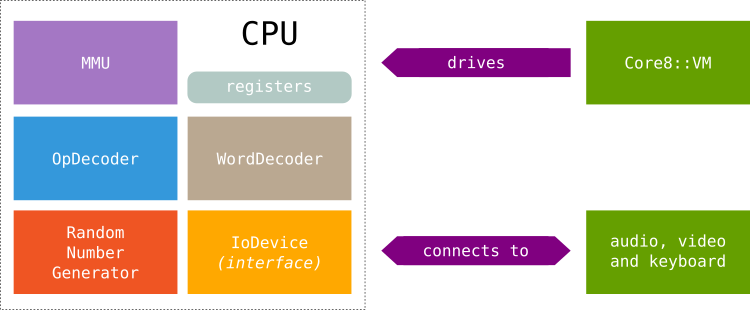
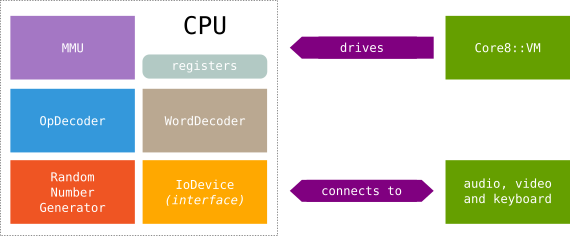
Resize overview image

diff --git a/README.md b/README.md
@@ -10,12 +10,14 @@ It is important to notice that this project is **not an actual emulator**, but i
 
 ## Design
 
-It is quite common for CHIP8 interpreters/emulators to be implemented in a more procedural approach, usually embedding the GUI framework in the core of the code. This usually leads to high coupling and low cohesion, yet, it usually has a good performance. The **core8** lib proposes a fully testable object-oriented solution, where the entities of the interpreter are highly cohesive classes. *Is there an extra cost in all this?* Yes, the interpreter is not as fast as the monolithic procedural approach. But don't worry, this runs fast enough.
+It is quite common for CHIP8 interpreters/emulators to be implemented in a more procedural approach, usually embedding the GUI framework in the core of the code. This usually leads to high coupling and low cohesion, yet, it usually has a good performance. The **core8** lib proposes a fully testable object-oriented solution, where the entities of the interpreter are highly cohesive classes. *Is there an extra cost in all this?* Yes, the interpreter is not as fast as the monolithic procedural approach. But don't worry, it runs fast enough.
 
 The lib entities were designed as independent components (classes, if you will) to mirror the following conceptual CHIP8 architecture (here a simplified version is showed):
 
 <p align="center">
+  <br>
   <img src="https://github.com/benvenutti/core8/blob/issue-36/images/core8-overview.png" alt="Overview of core8 architecture">
+  <br><br>
 </p>
 
 While the class `Core8::VM` drives the whole underlying CPU, the pure virtual class `Core8::IoDevice` can be implemented on frameworks like [sfml](http://www.sfml-dev.org/), [SDL](https://www.libsdl.org/), etc. to provide a GUI for the user experience.
